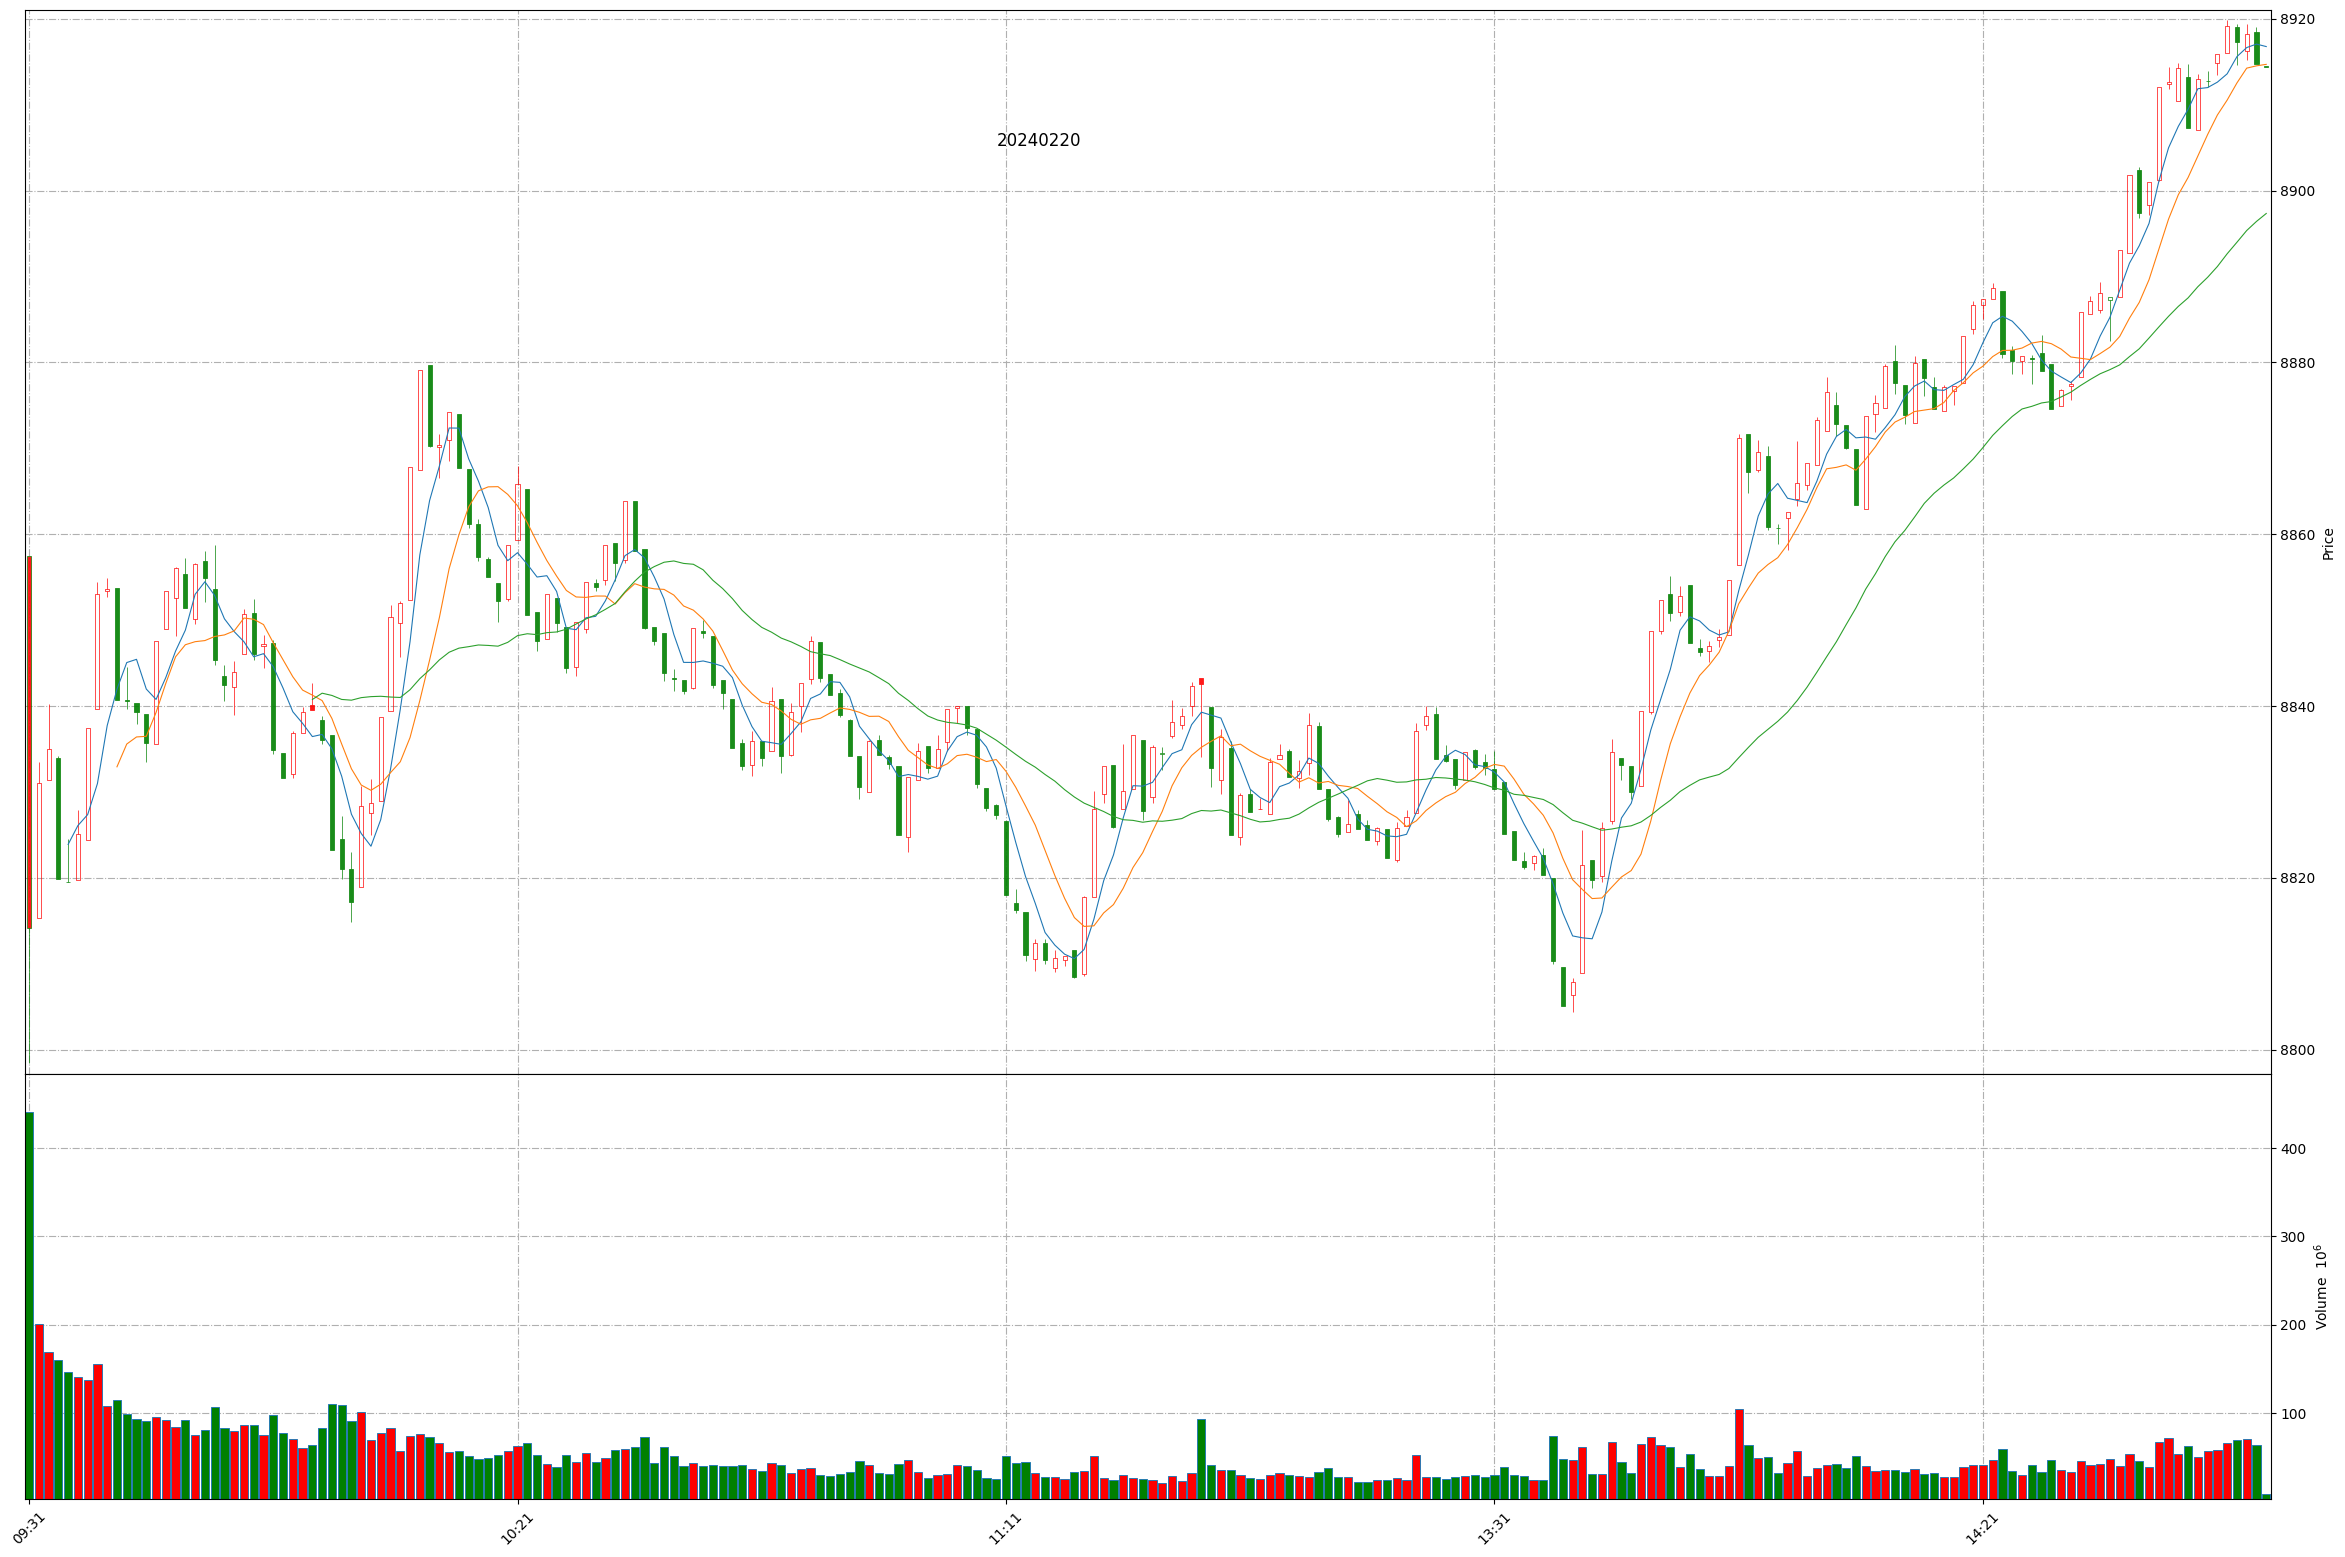
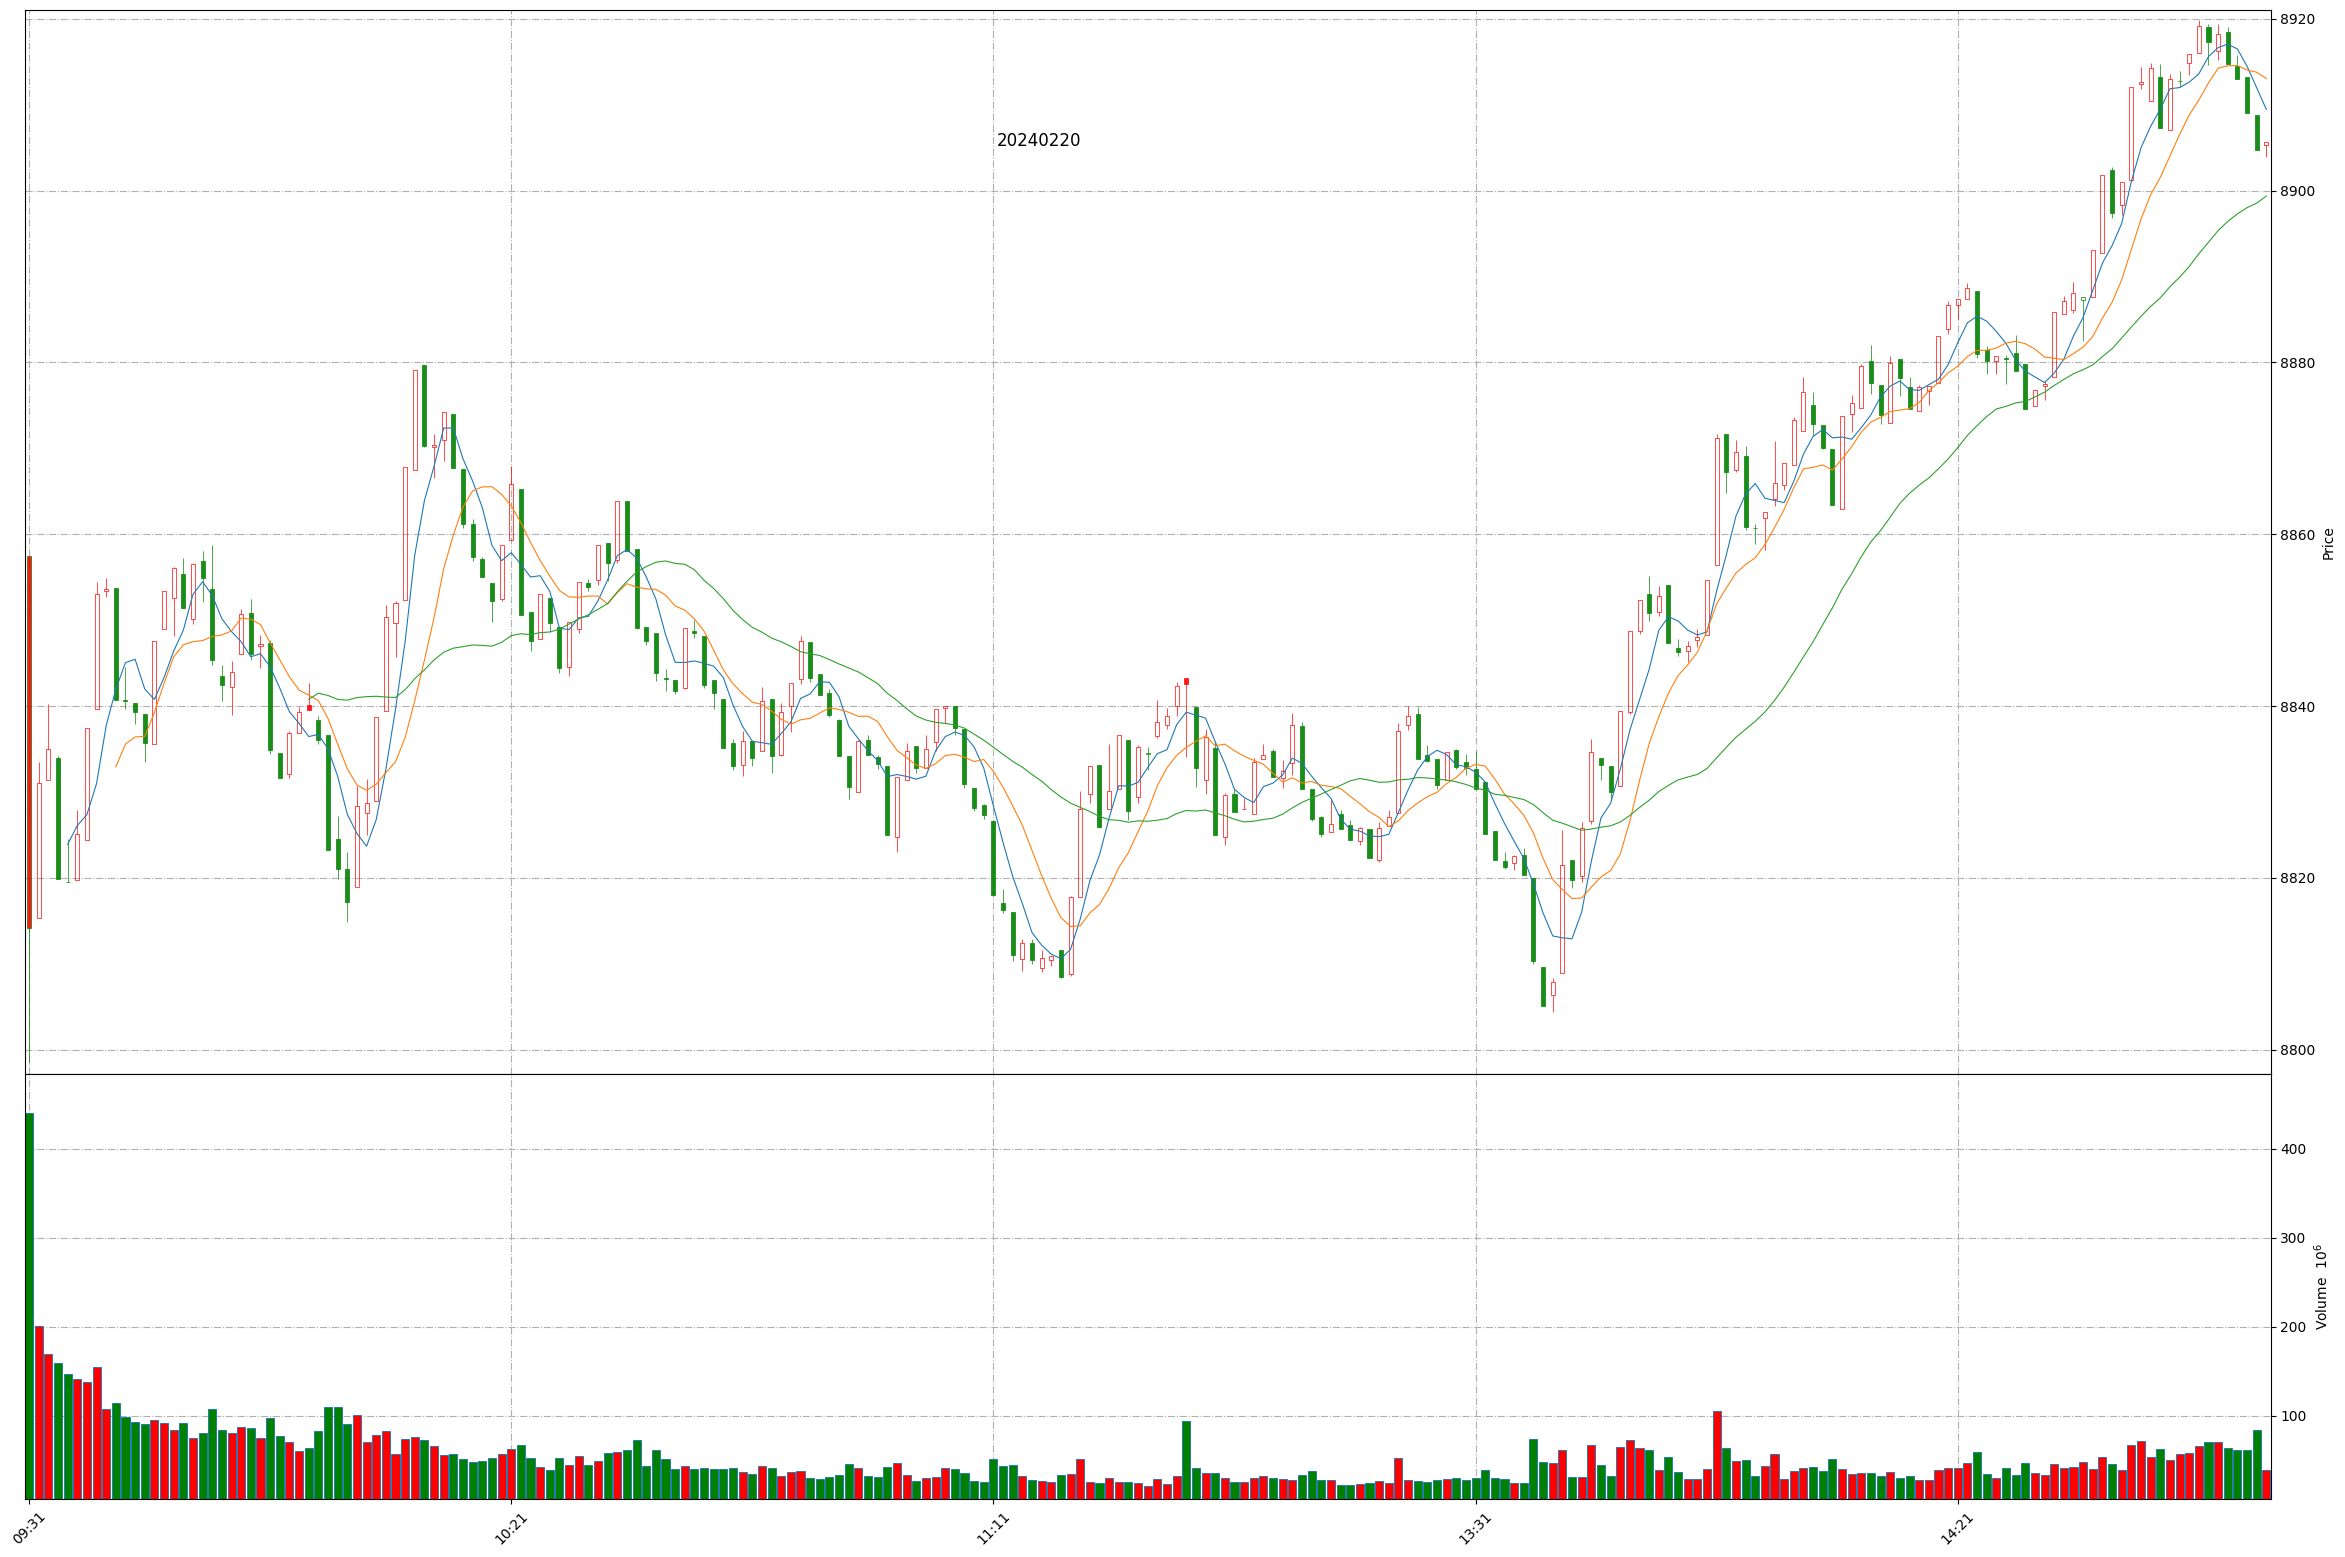
Github action update at 2024-02-20 14:52:51.

Changed region(s): [[0.0311, 0.0, 0.965, 0.6474], [0.0311, 0.894, 0.965, 0.9865]]

diff --git a/README.md b/README.md
@@ -1,11 +1,11 @@
 
 # Daily-A-share-market-quotes 每日 A 股指数（5min 更新）- 20240220
 
-### 上证指数 20240220 14:49
+### 上证指数 20240220 14:52
 ![](./fig/2024/2/20240220-sh000001.png)
 
-### 深证成指 20240220 14:49
+### 深证成指 20240220 14:52
 ![](./fig/2024/2/20240220-sz399001.png)
 
-### 北证50 20240220 14:49
+### 北证50 20240220 14:52
 ![](./fig/2024/2/20240220-bj899050.png)
